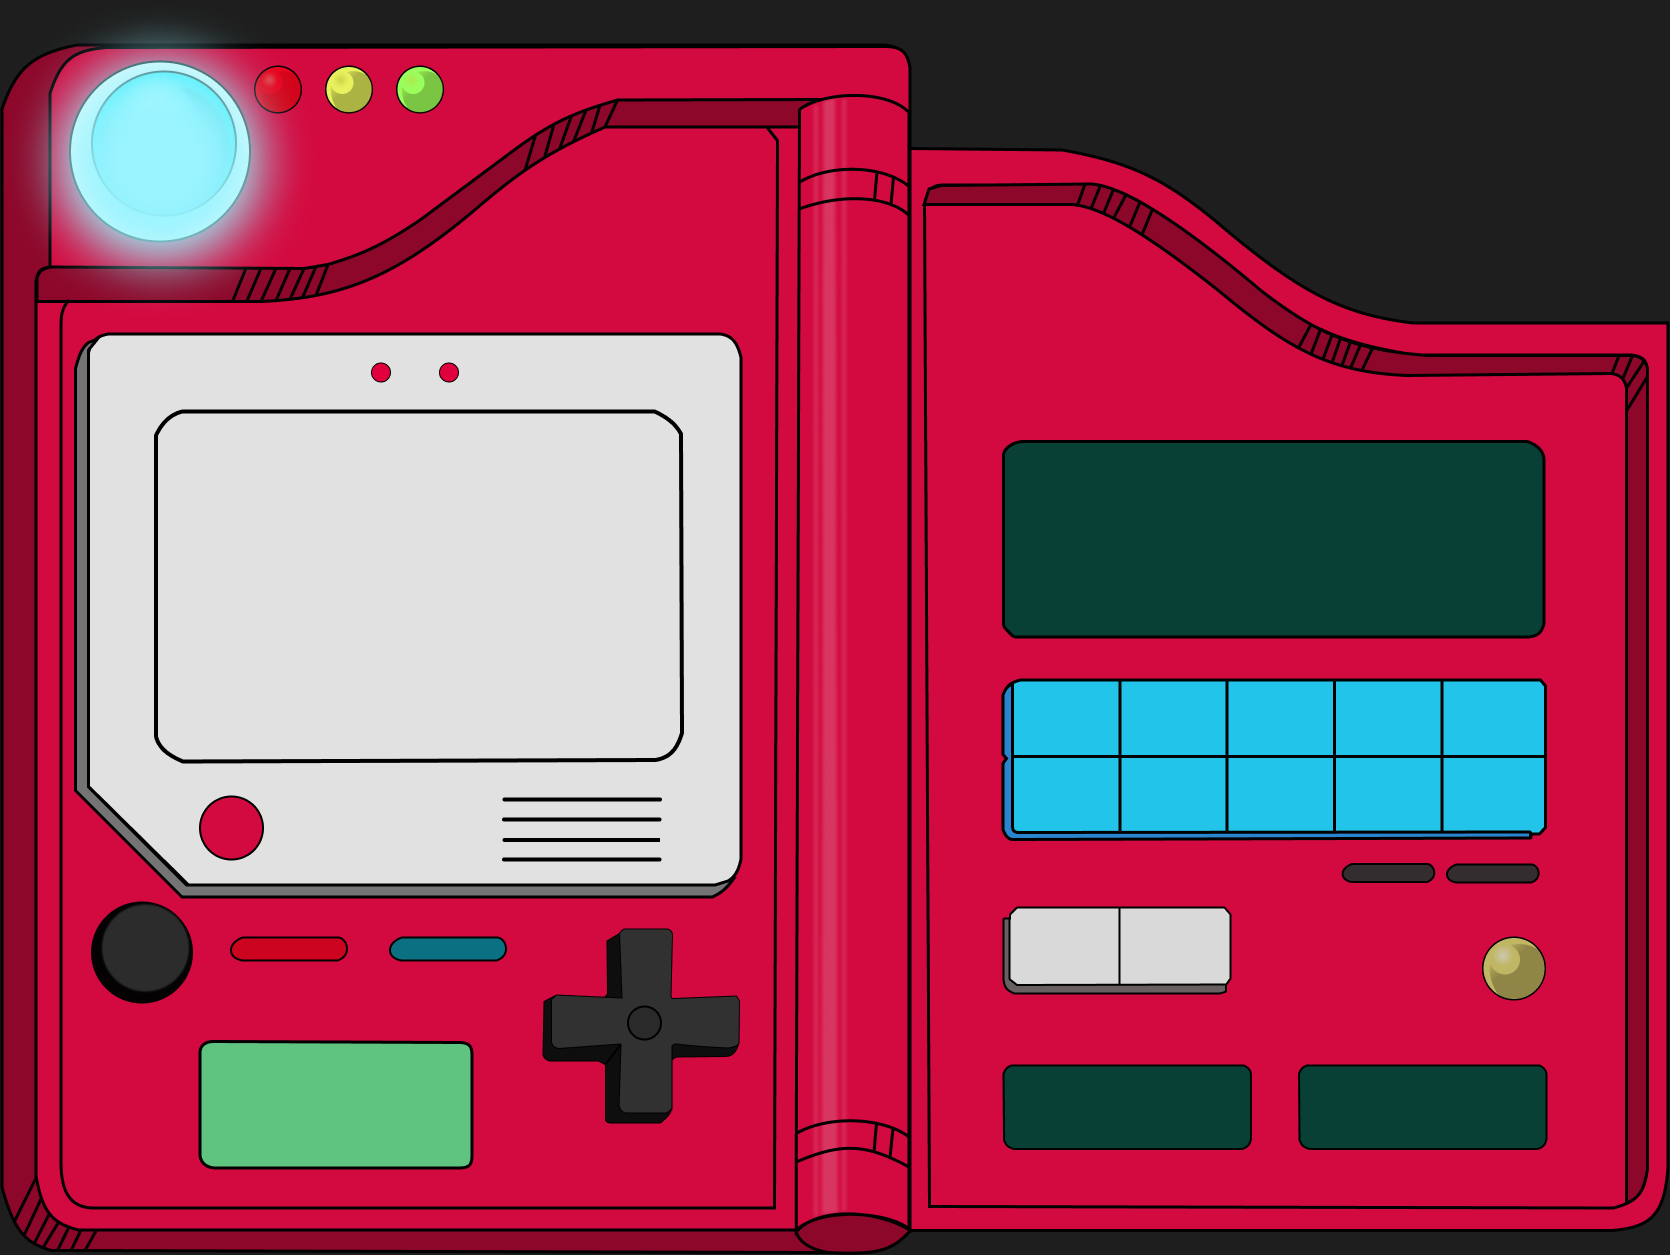
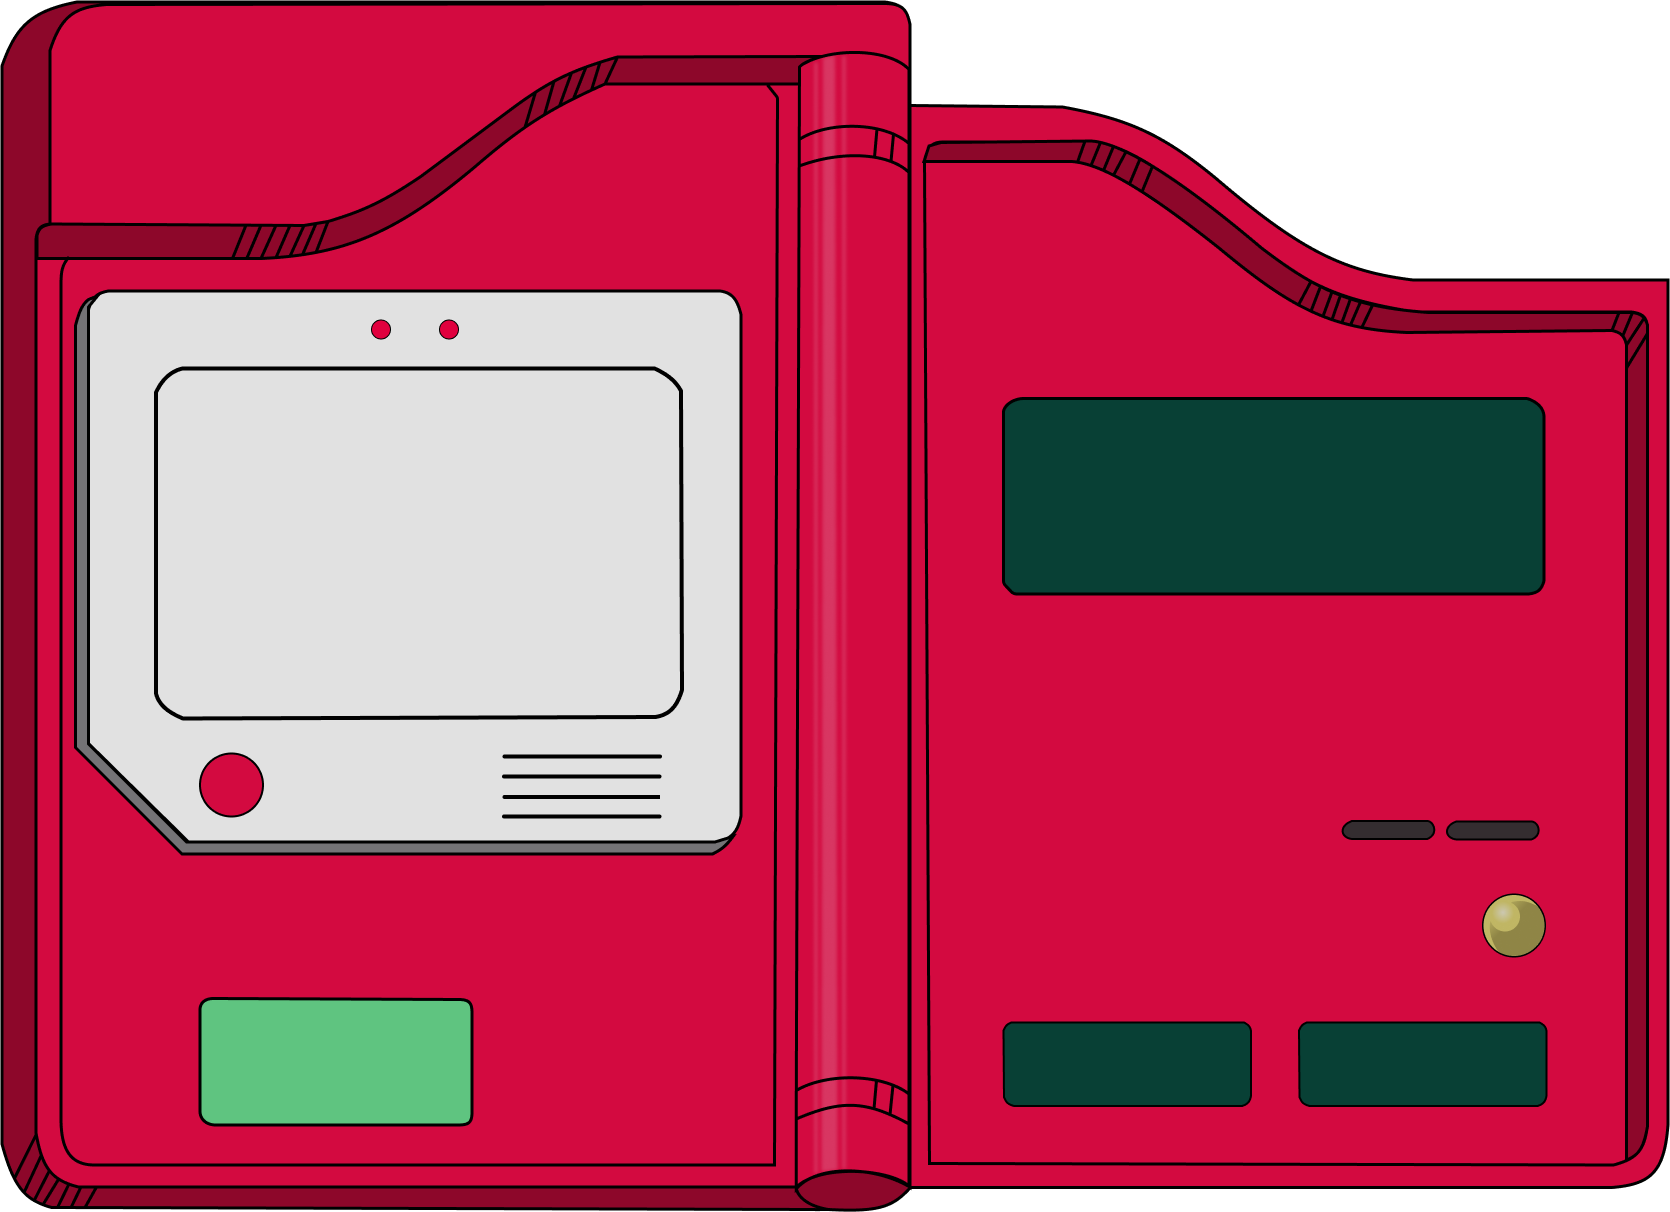
Day 1: Updated UI

diff --git a/pokedex.css b/pokedex.css
@@ -10,8 +10,8 @@ body {
 }
 
 #content-box {
-    width: 500px;
-    height: 500px;
+    width: 1600px;
+    height: 1200px;
     border: 10px solid lightgray;
     border-radius: 10px;
 
@@ -20,22 +20,31 @@ body {
     margin: 0 auto;
     margin-top: 60px;
 
-    background: url("assets/pics/pokeball.jpg") no-repeat;
-    background-size: cover;
+    background: url("assets/pics/pokedex.png") no-repeat;
+    background-size: contain;
+}
+
+#pokemon-name{
+    position: absolute;
+    top: 1080px; left: 363px;
+    font-size: 50px;
     
 }
 
 #pokemon-info {
-    text-align: center;
+    text-align: left;
     width: 250px;
     height: 500px;
 }
 
 #pokemon-list {
-    width: 250px;
-    height: 500px;
+    position: absolute;
+    top: 1065px; left: 1398px;
+    width: 200px;
+    height: 50px;
     font-size: 24px;
-    overflow-y: auto;
+    overflow-y: scroll;
+    scroll-behavior: smooth;
 
 }
 
@@ -45,7 +54,7 @@ body {
 
 }
 
-.pokemon-name {
+.pokemon-name { /*Box*/
     border: 1px solid black;
     border-radius: 10px;
     background-color: white;
@@ -55,18 +64,21 @@ body {
 }
 
 #pokemon-info img {
-    text-align: center;
-    width: 160px;
-    height: 160px;
-    border: 1px solid black;
+    position: absolute;
+    top: 410px; left: 390px;
+    width: 320px;
+    height: 320px;
     border-radius: 10px;
     margin-top: 20px;
-    background-color: white;
+    background-color: #E1E1E1;
 }
 
 #pokemon-types {
+    position: absolute;
+    top: 1058px; left: 1116px;
     text-align: center;
     margin-top: 10px;
+    font-size: 35px;
 }
 
 .type-box {
@@ -168,15 +180,18 @@ body {
 }
 
 #pokemon-description {
-    width: 230px;
-    height: 100px;
-    background-color: white;
+    position: absolute;
+    top: 440px; left: 1100px;
+    color: white;
+    width: 540.53px;
+    height: 195.5px;
+    background-color: #084035;
     border: 1px solid black;
     border-radius: 10px;
 
     margin: 0 auto;
     margin-top: 10px;
     padding: 2px;
-    font-size: 18px;
+    font-size: 35px;
     overflow-y: auto;
 }

diff --git a/pokedex.html b/pokedex.html
@@ -10,9 +10,13 @@
     </head>
 
     <body>
+
         <div id="content-box">
             <!-- Left Side, display pokemon info -->
             <div id="pokemon-info">
+                <div id = "pokemon-name">
+                    <span class="name">BULBASAUR</span>
+                </div>
                 <img id="pokemon-img" src="https://raw.githubusercontent.com/PokeAPI/sprites/master/sprites/pokemon/1.png">
                 <div id="pokemon-types">
                     <span class="type-box grass">GRASS</span><span class="type-box poison">POISON</span>

diff --git a/pokedex.js b/pokedex.js
@@ -10,6 +10,7 @@ window.onload = async function() {
         pokemon.addEventListener("click", updatePokemon);
         document.getElementById("pokemon-list").append(pokemon);
     }
+    document.getElementById("pokemon-name").innerText = pokedex[1]["name"];
 
     document.getElementById("pokemon-description").innerText = pokedex[1]["desc"];
 
